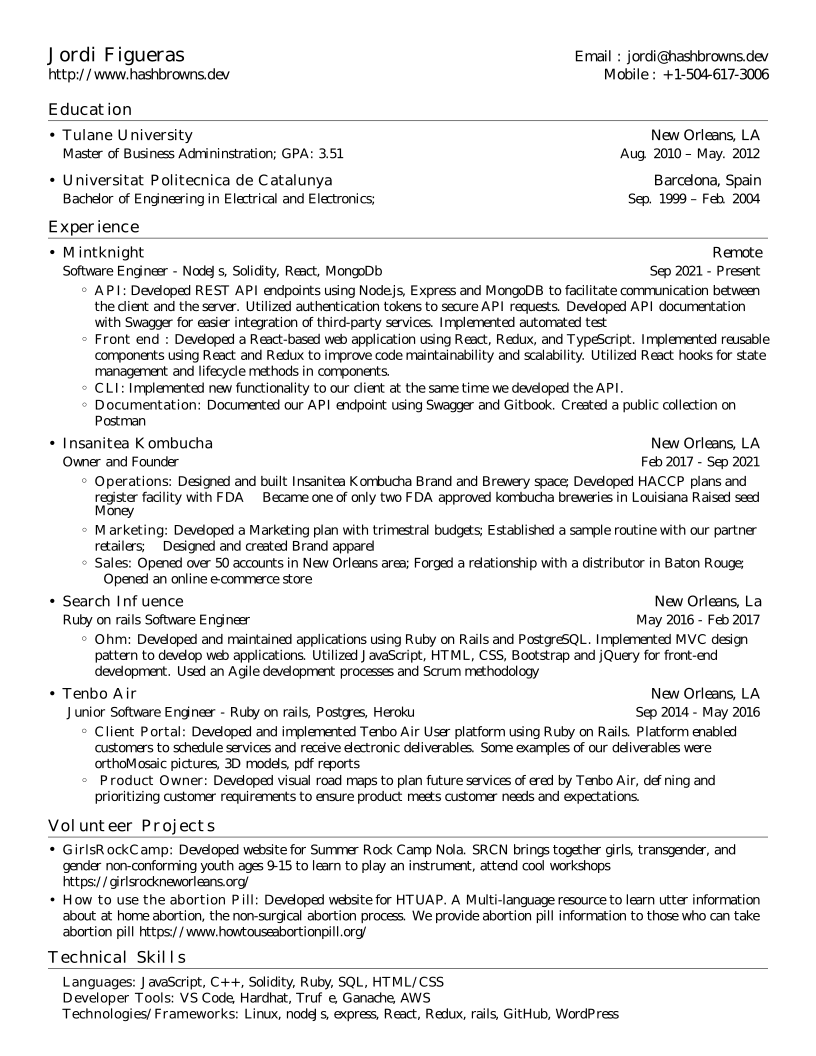
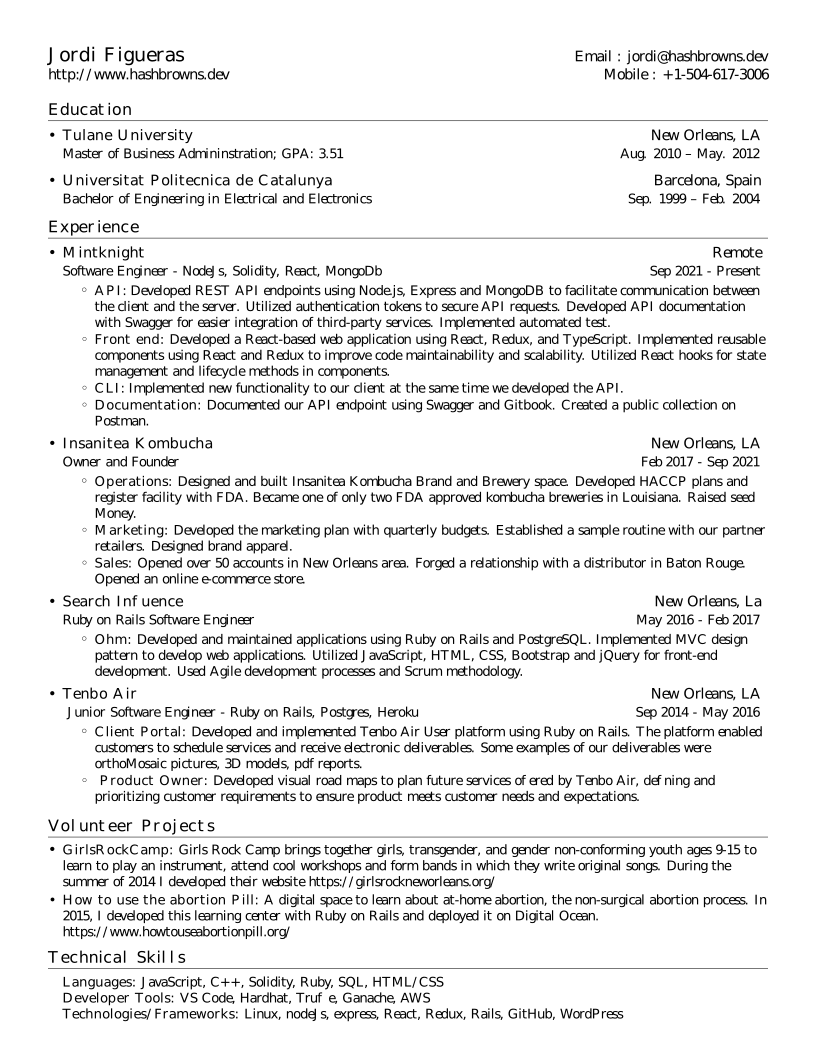
typo's

diff --git a/jordi_figueras_resume.tex b/jordi_figueras_resume.tex
@@ -106,7 +106,7 @@
       {Master of Business Admininstration;  GPA: 3.51}{Aug. 2010 -- May. 2012}
     \resumeSubheading
       {Universitat Politecnica de Catalunya}{Barcelona, Spain}
-      {Bachelor of Engineering in Electrical and Electronics;  }{Sep. 1999 -- Feb. 2004}
+      {Bachelor of Engineering in Electrical and Electronics }{Sep. 1999 -- Feb. 2004}
   \resumeSubHeadingListEnd
 
 
@@ -120,7 +120,7 @@
       \resumeItemListStart
         \resumeItem{API}
           {Developed REST API endpoints using Node.js, Express and MongoDB to facilitate communication between the client and the server. Utilized authentication tokens to secure API requests. Developed API documentation with Swagger for easier integration of third-party services. Implemented automated test.}
-        \resumeItem{Front end }
+        \resumeItem{Front end}
           {Developed a React-based web application using React, Redux, and TypeScript. Implemented reusable components using React and Redux to improve code maintainability and scalability. Utilized React hooks for state management and lifecycle methods in components.}
         \resumeItem{CLI}
           {Implemented new functionality to our client at the same  time we developed the API.}  
@@ -145,7 +145,7 @@
         \resumeItem{Operations}
           {Designed and built Insanitea Kombucha Brand and Brewery space. Developed HACCP plans and register facility with FDA. Became one of only two FDA approved kombucha breweries in Louisiana. Raised seed Money.}
         \resumeItem{Marketing}
-          {Developed a Marketing plan with quarterly budgets. Established a sample routine with our partner retailers. Designed Brand apparel.}
+          {Developed the marketing plan with quarterly budgets. Established a sample routine with our partner retailers. Designed brand apparel.}
         \resumeItem{Sales}
           {Opened over 50 accounts in New Orleans area. Forged a relationship with a distributor in Baton Rouge. Opened an online e-commerce store.}        
       \resumeItemListEnd
@@ -155,7 +155,7 @@
       {Ruby on Rails Software Engineer}{May 2016 - Feb 2017}
       \resumeItemListStart
         \resumeItem{Ohm}
-          {Developed and maintained applications using Ruby on Rails and PostgreSQL. Implemented MVC design pattern to develop web applications. Utilized JavaScript, HTML, CSS, Bootstrap and jQuery for front-end development. Used an Agile development processes and Scrum methodology.}
+          {Developed and maintained applications using Ruby on Rails and PostgreSQL. Implemented MVC design pattern to develop web applications. Utilized JavaScript, HTML, CSS, Bootstrap and jQuery for front-end development. Used Agile development processes and Scrum methodology.}
                  
       \resumeItemListEnd
 
@@ -178,7 +178,7 @@
     \resumeSubItem{GirlsRockCamp}
       {Girls Rock Camp brings together girls, transgender, and gender non-conforming youth ages 9-15 to learn to play an instrument, attend cool workshops and form bands in which they write original songs. During the summer of 2014 I developed their website  https://girlsrockneworleans.org/}
     \resumeSubItem{How to use the abortion Pill}
-      {A digital space to learn utter information about at-home abortion, the non-surgical abortion process. In 2015, I created this learning center in Ruby on Rails and deployed it on Digital Ocean. https://www.howtouseabortionpill.org/}
+      {A digital space to learn about at-home abortion, the non-surgical abortion process. In 2015, I developed this learning center with Ruby on Rails and deployed it on Digital Ocean. https://www.howtouseabortionpill.org/}
 %    \resumeSubItem{Nola Mesh}
 %      {Attended and collaborated with this local meetup, creating a new WIFI network around the city}
   \resumeSubHeadingListEnd
